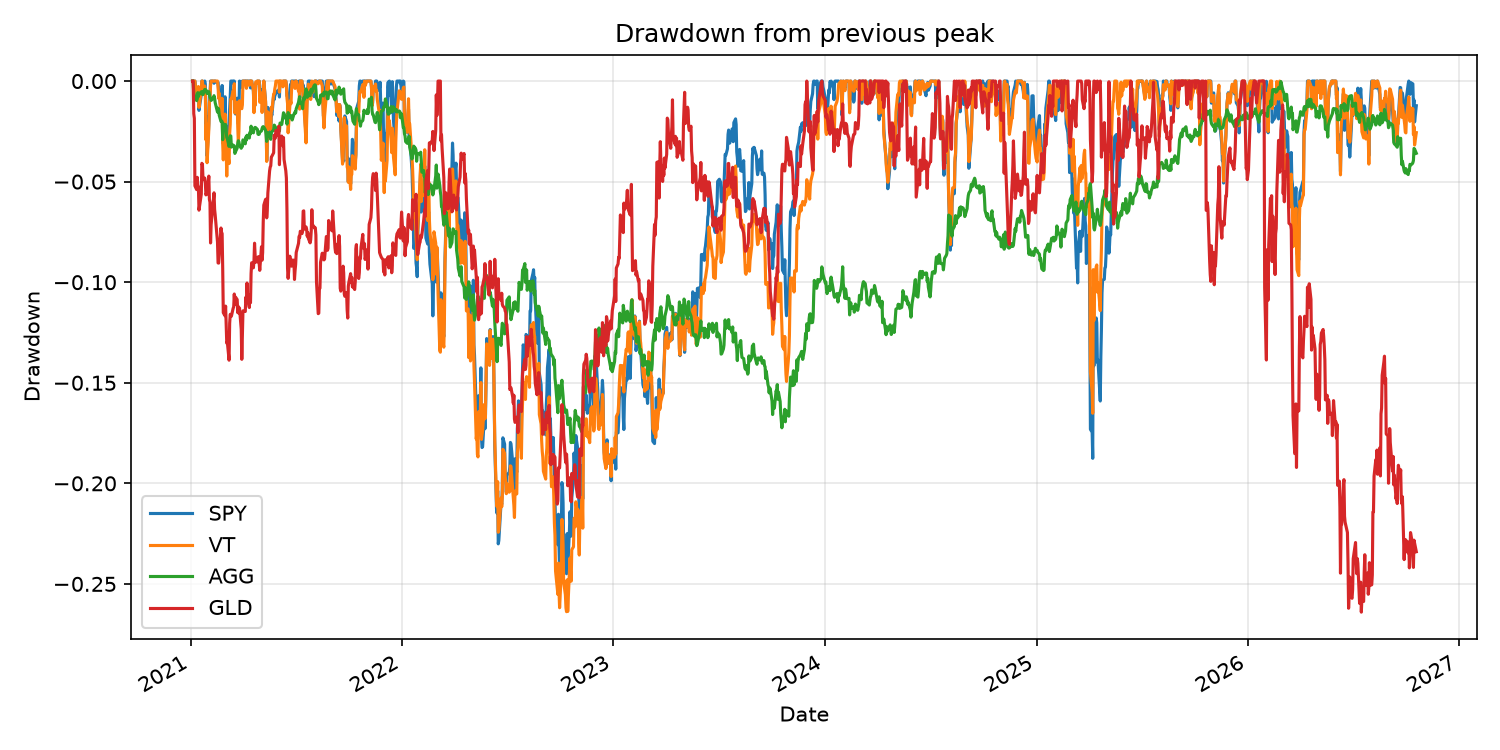
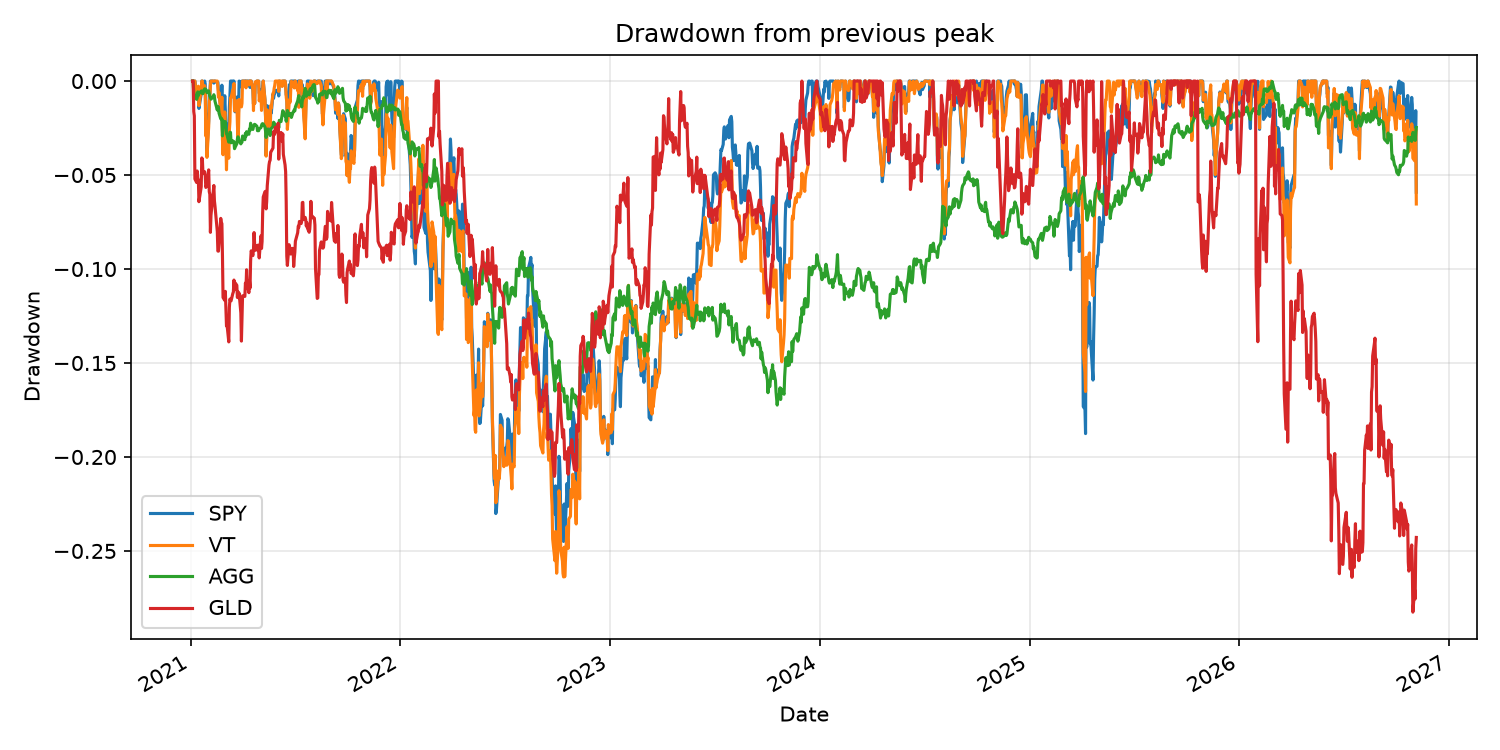
Add plain-English findings and refresh results
Write key findings to the console and output/findings.txt on each run.
Update the charts and README with data through 5 November 2026.

diff --git a/fund_analysis.py b/fund_analysis.py
@@ -111,6 +111,37 @@ def plot_correlation(returns, path):
     plt.close()
 
 
+def write_findings(summary, returns, path):
+    """Turn the results into short plain-English findings and save them."""
+    cagr = summary["Annualised return (CAGR)"]
+    volatility = summary["Annualised volatility"]
+    sharpe = summary["Sharpe ratio"]
+    max_drawdown = summary["Max drawdown"]
+
+    findings = [
+        f"{cagr.idxmax()} grew fastest at {cagr.max():.1%} a year. "
+        f"{cagr.idxmin()} grew slowest at {cagr.min():.1%} a year.",
+        f"{sharpe.idxmax()} had the best return for its risk, with a Sharpe ratio of {sharpe.max():.2f}.",
+        f"{volatility.idxmax()} had the biggest price swings, with {volatility.max():.1%} volatility.",
+        f"{max_drawdown.idxmin()} had the deepest fall from a peak, at {max_drawdown.min():.1%}.",
+    ]
+
+    if len(returns.columns) > 1:
+        first_fund = returns.columns[0]
+        corr = returns.corr()[first_fund].drop(first_fund)
+        equal_mix = returns.mean(axis=1)  # the same amount in each fund, reset every day
+        mix_volatility = equal_mix.std() * np.sqrt(TRADING_DAYS)
+        findings += [
+            f"{corr.idxmax()} moved most like {first_fund} (correlation {corr.max():.2f}), "
+            f"and {corr.idxmin()} moved least like it ({corr.min():.2f}).",
+            f"An equal mix of the funds had {mix_volatility:.1%} volatility, "
+            f"against a {volatility.mean():.1%} average for the funds on their own.",
+        ]
+
+    path.write_text("\n".join(findings) + "\n")
+    return findings
+
+
 def run(prices, output_dir=OUTPUT_DIR):
     output_dir.mkdir(exist_ok=True)
     summary, returns, drawdown = compute_metrics(prices)
@@ -121,6 +152,10 @@ def run(prices, output_dir=OUTPUT_DIR):
     plot_correlation(returns, output_dir / "correlation.png")
 
     print(summary.round(3).to_string())
+
+    print("\nKey findings")
+    for finding in write_findings(summary, returns, output_dir / "findings.txt"):
+        print(f"- {finding}")
     return summary
 
 

diff --git a/README.md b/README.md
@@ -6,16 +6,39 @@ A Python script that compares four ETFs on return, risk and drawdown, using publ
 
 ## Results
 
-These results use data from January 2021 to October 2026.
+These results use data from 4 January 2021 to 5 November 2026.
 
 | Fund | Total return | Annual return (CAGR) | Volatility | Sharpe ratio | Max drawdown |
 |---|---:|---:|---:|---:|---:|
-| SPY | 125.3% | 15.1% | 16.6% | 0.75 | -24.5% |
-| VT | 91.5% | 11.9% | 15.8% | 0.60 | -26.4% |
-| AGG | -3.6% | -0.6% | 5.8% | -0.59 | -18.0% |
-| GLD | 108.3% | 13.5% | 18.4% | 0.62 | -26.4% |
+| SPY | 114.6% | 14.0% | 16.7% | 0.69 | -24.5% |
+| VT | 83.7% | 11.0% | 15.8% | 0.55 | -26.4% |
+| AGG | -2.5% | -0.4% | 5.8% | -0.56 | -18.0% |
+| GLD | 105.9% | 13.2% | 18.5% | 0.60 | -28.3% |
 
 The Sharpe ratios assume a fixed risk-free rate of 3%.
+
+## Key findings
+
+The script writes these findings from the data each time it runs:
+
+- SPY grew fastest at 14.0% a year. AGG grew slowest at -0.4% a year.
+- SPY had the best return for its risk, with a Sharpe ratio of 0.69.
+- GLD had the biggest price swings, with 18.5% volatility.
+- GLD had the deepest fall from a peak, at -28.3%.
+- VT moved most like SPY (correlation 0.97), and GLD moved least like it (0.17).
+- An equal mix of the funds had 10.7% volatility, against a 14.2% average for the funds on their own.
+
+## What this might mean
+
+Over this period, what a fund invested in seemed to matter more for diversification than how many funds were held. VT moved almost in step with SPY, so it added little diversification, while gold and bonds moved much more independently. An equal mix of all four was noticeably less volatile than the average fund.
+
+Low correlation didn't guarantee good results, though. AGG had a low correlation with SPY but still lost money overall and fell 18.0% from its peak.
+
+These results have some limits:
+
+- They cover one period of under six years, and a different period could change the picture.
+- They exclude tax and trading costs.
+- Past returns don't predict future returns.
 
 ![Drawdown from previous peak](output/drawdown.png)
 
@@ -28,7 +51,7 @@ pip install -r requirements.txt
 python fund_analysis.py
 ```
 
-The script saves the charts and a `summary.csv` file to the `output` folder.
+The script saves the charts, a `summary.csv` file and a `findings.txt` file to the `output` folder.
 
 To compare different funds or dates, change the settings at the top of `fund_analysis.py`.
 
